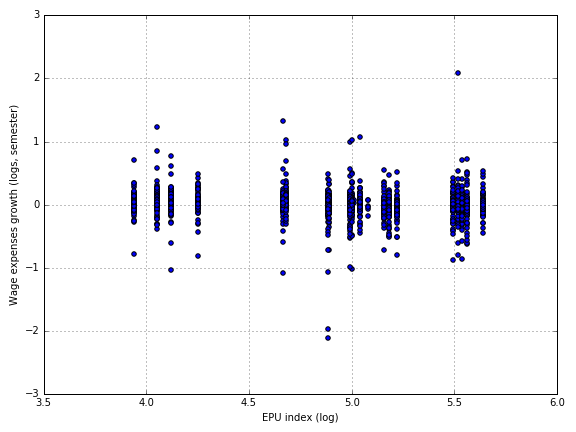
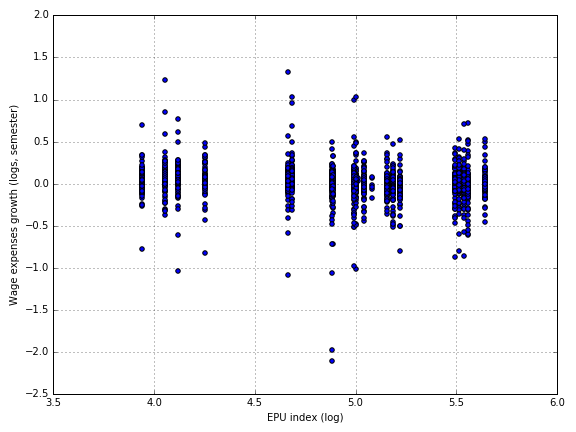
CAIXABANK before 2011 is CRITERIA

diff --git a/accounts/get_stats.py b/accounts/get_stats.py
@@ -49,6 +49,8 @@ def parse_xml():
         for fname in os.listdir(os.path.join(unzipdir,folder)):
             if folder == 'FERROVIAL' and fname < '2010': ## previously reported CINTRA only, a spinoff 
                 continue
+            if folder.startswith('CAIXABANK') and fname < '2011104630': ## previously CRITERIA only
+                continue
             fpath = os.path.join(unzipdir,folder, fname)
             full_string = ''
             with open(fpath,'r') as inf:

diff --git a/README.md b/README.md
@@ -213,6 +213,10 @@ We are going to assemble a panel data for stock quoted companies in the Mercado 
 We get H1 and FY accounts from CNMV and for each company we get the salary expenses in the semester and sales. We use the sector classifications of CNMV.
 The resulting panel has 345 companies, where many do not have a figure for wages and will be excluded. The earliest accounts included are from 2005 and the latest from 2015. Companies reporting usually does not span the full interval.
 
+We look for consolidated accounts and if absent for individual accounts. We identify wage expenses by the tags EmployeeExpensesByNature or GastoPersonalNIIF in this order and company sales by the tags RevenueTotalByNature or ImporteNetoCifraNegocio for non banking companies and OtherOperatingIncomeTotalFinancialInstitutions for banking institutions.
+
+We remove Ferrovial data prior to 2010 as reports refer to CINTRA accounts and likewise for Caixabank prior to 2011 as they describe CRITERIA.
+
 ##### Text mining Boletin Oficial del Estado
 
 We download BOE from 2005 to 2015 and find data on public work contracts. We use text mining to extract the value of the contract and the contractor name. Then we write regular expressions for the list of companies in the previous section and add up the volume of public work for each semester and company. Then we calculate the public work awards for each sector, and the fraction that represent over sales for the full time interval.
@@ -239,22 +243,22 @@ We report coefficient estimates and p-values right below.
 
 Daily volatility | (1) | (2) | (3) | (4)
 --- | :---: | :---: | :---: | :---:
-**log_epu** | 1.346 |   | 1.454 |  
- | 0.892 |   | 0.890 |  
-**epu_weighted** |   | 64.650 |   | 68.539
+**log_epu** | 1.363 |   | 1.384 |  
+ | 0.891 |   | 0.896 |  
+**epu_weighted** |   | 64.718 |   | 68.596
  |   | 0.000 |   | 0.000
-**ibex35** |   |   | -0.255 |  
- |   |   | 0.977 |  
-**ibex_weighted** |   |   |   | -9.176
- |   |   |   | 0.539
-**spending** | -109.503 |   | -105.663 |  
- | 0.786 |   | 0.804 |  
-**spend_weighted** |   | -2405.487 |   | -2273.595
+**ibex35** |   |   | -0.050 |  
+ |   |   | 0.995 |  
+**ibex_weighted** |   |   |   | -9.147
+ |   |   |   | 0.541
+**spending** | -108.431 |   | -107.682 |  
+ | 0.789 |   | 0.801 |  
+**spend_weighted** |   | -2407.173 |   | -2275.662
  |   | 0.001 |   | 0.002
 **lag_expend** |   |   |   |  
  |   |   |   |  
 **r2** | 0.000 | 0.022 | 0.000 | 0.023
-**N** | 1916 | 1916 | 1916 | 1916
+**N** | 1909 | 1909 | 1909 | 1909
 **Time&firm eff.** | False | True | False | True
 
 
@@ -265,22 +269,22 @@ In the second set of regressions, we will look at the evolution of variables in 
 
 Log salary expense | (1) | (2) | (3) | (4)
 --- | :---: | :---: | :---: | :---:
-**log_epu** | -0.029 |   | -0.030 |  
- | 0.060 |   | 0.056 |  
-**epu_weighted** |   | -0.533 |   | -0.113
- |   | 0.269 |   | 0.844
-**ibex35** |   |   | 0.004 |  
- |   |   | 0.731 |  
+**log_epu** | -0.028 |   | -0.030 |  
+ | 0.053 |   | 0.047 |  
+**epu_weighted** |   | -0.540 |   | -0.130
+ |   | 0.243 |   | 0.814
+**ibex35** |   |   | 0.005 |  
+ |   |   | 0.665 |  
 **ibex_weighted** |   |   |   | -0.815
- |   |   |   | 0.159
-**spending** | -1.034 |   | -1.099 |  
- | 0.136 |   | 0.126 |  
-**spend_weighted** |   | 30.659 |   | 106.283
- |   | 0.598 |   | 0.070
-**lag_expend** | -69.336 | -80.467 | -71.418 | -106.647
- | 0.129 | 0.183 | 0.122 | 0.088
-**r2** | 0.015 | 0.031 | 0.015 | 0.039
-**N** | 1706 | 1706 | 1706 | 1706
+ |   |   |   | 0.144
+**spending** | -1.190 |   | -1.270 |  
+ | 0.075 |   | 0.067 |  
+**spend_weighted** |   | 83.651 |   | 88.754
+ |   | 0.135 |   | 0.117
+**lag_expend** | -65.620 | -133.424 | -68.147 | -105.676
+ | 0.135 | 0.022 | 0.124 | 0.079
+**r2** | 0.018 | 0.038 | 0.018 | 0.040
+**N** | 1699 | 1699 | 1699 | 1699
 **Time&firm eff.** | False | True | False | True
 
 ![](figures/wage_growth_epu.png?raw=true)
